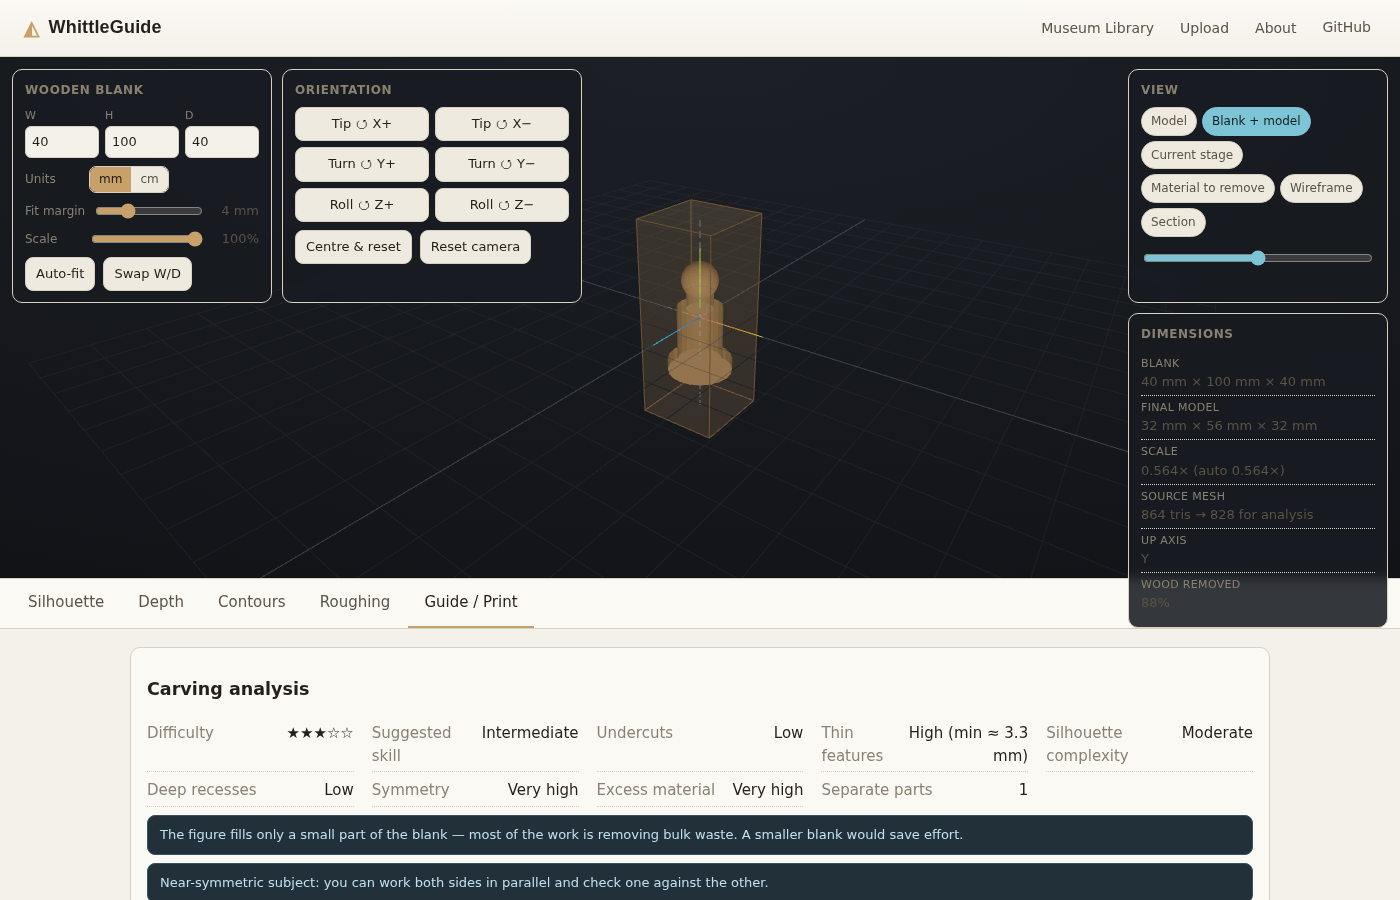
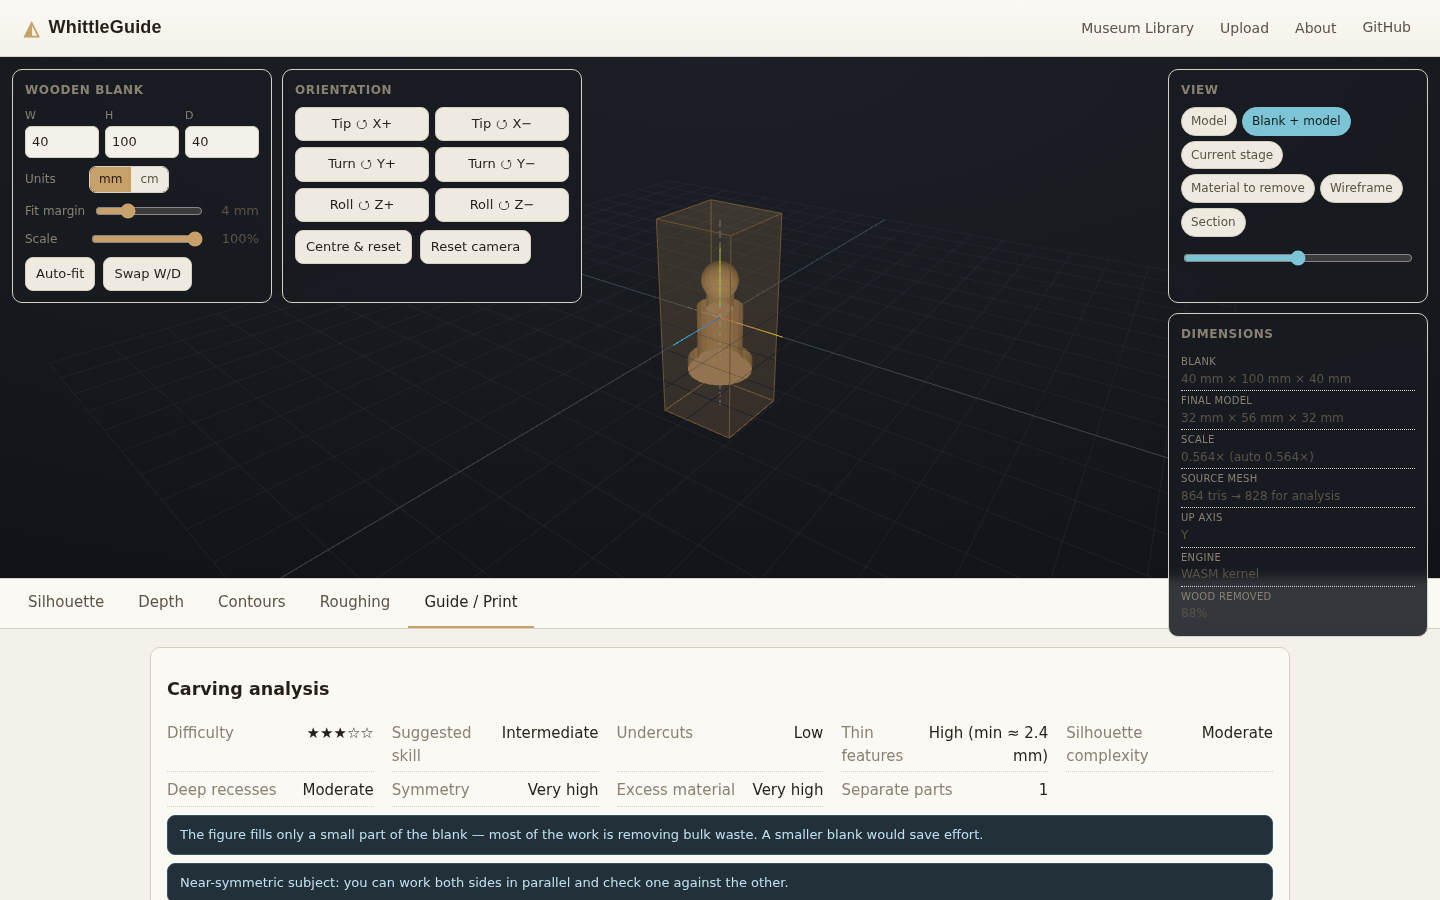
README + docs: pipeline diagram, limitations, feature table, fresh screenshots

diff --git a/README.md b/README.md
@@ -51,8 +51,10 @@ Smithsonian; **uploaded files never leave your device**.
 | Printable guide (A4 CSS) + per-template SVG export + calibration square | ✅ |
 | Web Worker for the heavy geometry so the UI stays responsive | ✅ |
 | **Rust → WASM geometry kernel** (voxelisation + distance transform), ~10× faster, with JS fallback | ✅ |
-| Vector-quality silhouettes (high-res projected-triangle raster, independent of voxel grid) | ✅ |
+| Vector-quality silhouettes + high-res depth maps + contours (triangle raster, independent of the voxel grid) | ✅ |
+| Smoothed 3-D carving-stage preview (Surface Nets isosurface, not voxel cubes) | ✅ |
 | Weekly CI refresh of the Smithsonian catalogue URLs | ✅ |
+| Museum load-failure recovery screen (retry / demo / upload) | ✅ |
 | Europeana provider | ⚙ scaffolded, opt-in via API key (see §5) |
 | PDF export | ➖ use the browser's "Save as PDF" from the guide (deliberately not a fake button) |
 | Knife/tool-path planning, grain awareness | ❌ future work (see §12) |
@@ -73,9 +75,11 @@ src/
   viewer/         three.js scene, model loaders, voxel→mesh, demo models
   geometry/       PURE, three.js-free, unit-tested pipeline
     mesh.ts normalize.ts blank.ts voxelize.ts distance.ts
-    projection.ts depthMap.ts contours.ts marchingSquares.ts
+    projection.ts contours.ts marchingSquares.ts
     carvingStages.ts carvability.ts roughCuts.ts analysis.ts
-    silhouette.ts        high-res vector silhouette tracing
+    viewGeometry.ts      one source of truth: view → face-frame mapping
+    silhouette.ts        high-res vector silhouette tracing (triangle raster)
+    depthField.ts        high-res orthographic depth maps (triangle z-buffer)
     wasm/                loader + typed wrapper for the Rust kernel
   workers/        analysis.worker.ts + main-thread client
   export/         SVG templates, printable guide
@@ -144,17 +148,20 @@ The app is fully functional without Europeana.
 
 ```
 placed mesh (blank space)
-  → solid voxelisation        3-axis parity fill, majority vote (robust to holes)
-  → orthographic projections  6 silhouettes + marching-squares outlines
-  → depth maps                first solid voxel from each face, quantised to 1 mm
-  → contour maps              marching squares on the depth field, 2/5/10 mm
-  → carving stages            nested envelopes (see §7)
-  → carvability report        undercuts, thin features, symmetry, recesses, …
-  → experimental rough cuts    safe whole-slab straight cuts
+  ├─ triangle raster ──→ silhouettes   ~0.1 mm/px + Douglas–Peucker  (6 faces)
+  │                  └─→ depth maps    ~300 px/face z-buffer, quantised 1 mm (4 faces)
+  │                         └─→ contour maps   marching squares, 2/5/10 mm
+  └─ solid voxelisation (WASM)  3-axis parity fill, majority vote, ~84 cells
+         ├─ carving stages       nested envelopes, invariant-checked (see §7)
+         │      └─ 3-D preview    Surface Nets isosurface (smoothed)
+         ├─ carvability report    undercuts, thin features, symmetry, recesses, …
+         └─ experimental rough cuts   safe whole-slab straight cuts
 ```
 
-Voxel resolution is bounded (~60 cells on the longest blank axis). A
-40-million-triangle scan is never analysed at full resolution.
+The silhouette / depth / contour raster resolution is independent of the voxel
+grid, so templates stay sharp. Voxel resolution is bounded (~84 cells on the
+longest blank axis). A 40-million-triangle scan is simplified to ≤40 k triangles
+before any of this.
 
 ## 7. Carving-stage algorithm
 
@@ -190,15 +197,16 @@ Per-stage instructions are generated from *which* constraint was applied and the
 
 ## 8. Limitations
 
-- Depth maps, contour maps and the carving-stage volumes run on a **voxel grid**
-  (~60³–60×150×60). Fine detail below the voxel size is lost there; depth values
-  are quantised (default 1 mm) on purpose. (Template outlines are *not* limited by
-  this — see below.)
-- Template silhouettes are traced from a high-resolution raster of the projected
-  triangles (~0.1 mm/pixel) and Douglas–Peucker-simplified — crisp and
-  voxel-independent, though still a fine raster rather than an exact polygon
-  boolean of the triangles.
-- Contour lines are still voxel-grid resolution (they derive from the depth map).
+- **Templates, depth maps and contours** are rasterised straight from the placed
+  triangles (silhouettes ~0.1 mm/pixel, depth ~300 px/face) and
+  Douglas–Peucker-simplified — crisp and independent of the voxel grid. They're
+  still a fine raster rather than an exact polygon boolean of the triangles, and
+  depth is quantised (default 1 mm) on purpose.
+- The **carving-stage volumes** and the carvability metrics do run on a voxel
+  grid (~84 cells on the long axis). The 3-D stage preview is a smoothed
+  isosurface (Surface Nets + field blur + Laplacian) of that grid, so it reads as
+  carved wood rather than voxels; the underlying stage data is still grid
+  resolution.
 - Mesh simplification is **vertex clustering**, not quadric decimation — good
   enough for silhouettes/depth/voxels, not for display-quality reduction.
 - "Up axis" detection is a heuristic; use the orientation buttons if it guesses
@@ -246,7 +254,8 @@ results:
 - normalised dimensions, degenerate-triangle removal, simplification;
 - auto-fit (fits inside blank, preserves aspect ratio, respects margin);
 - voxel volume vs analytic volume for cube / sphere;
-- projection extents, depth values, contour nesting;
+- projection extents, depth values (incl. front/back measured from opposite
+  faces), contour nesting;
 - **`blank ⊇ stage₁ ⊇ … ⊇ final` for cube / sphere / cone / pawn**;
 - safety-margin monotonicity;
 - disconnected-part detection;
